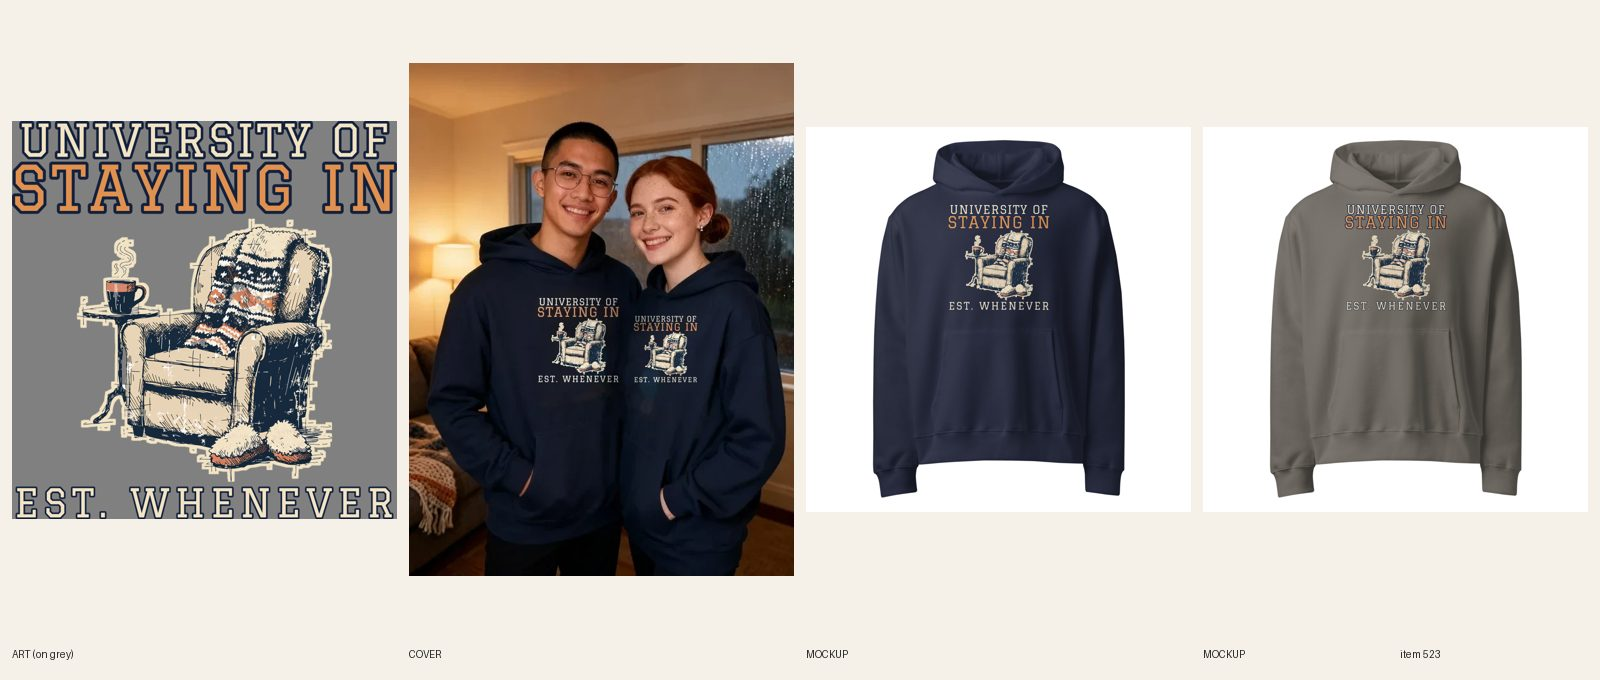
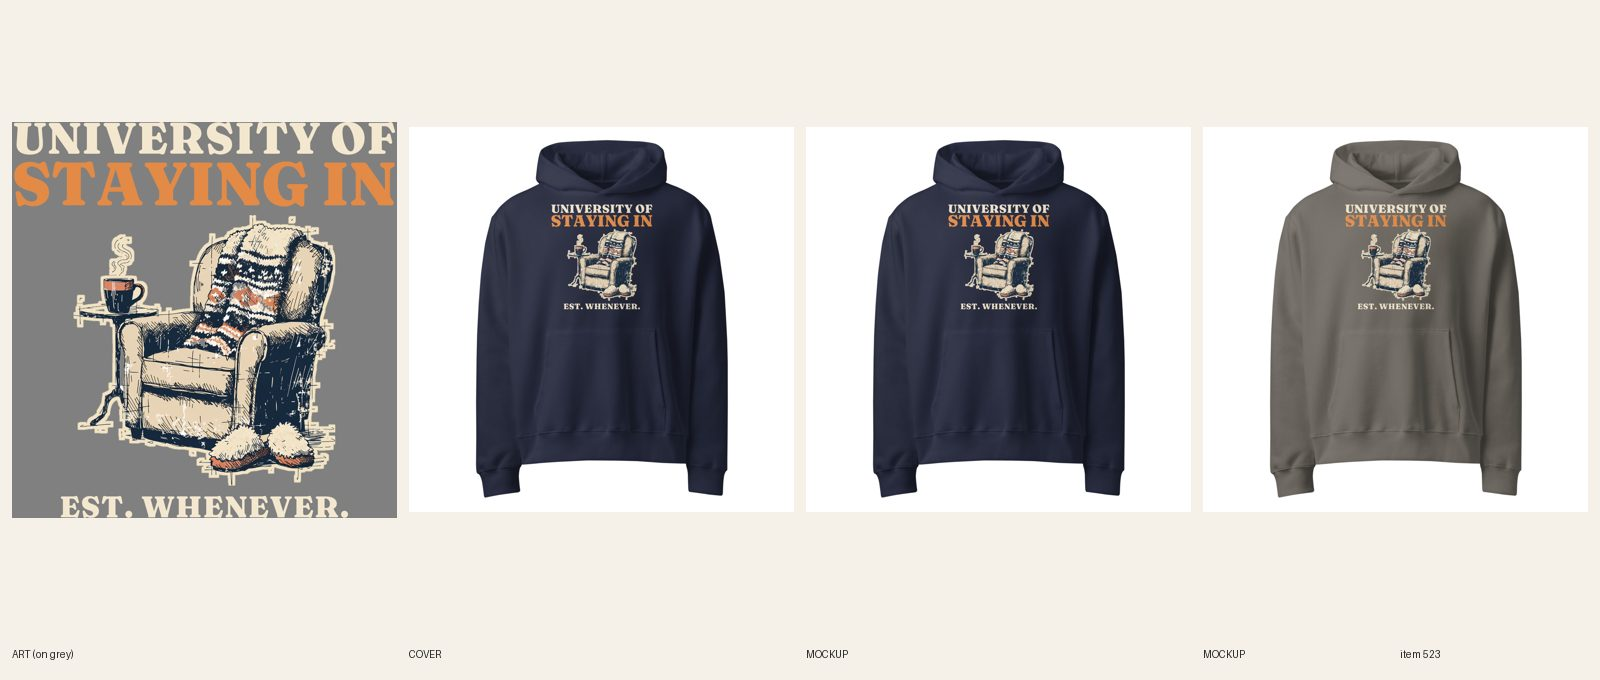
[C] review 523 University of Staying In oversized hoodie (type redo)

Changed region(s): [[0.0, 0.0926, 0.5, 0.8647], [0.8438, 0.2779, 0.9062, 0.4632], [0.5938, 0.2779, 0.6562, 0.4632]]

diff --git a/designs/c523/make.py b/designs/c523/make.py
@@ -1,0 +1,39 @@
+from PIL import Image, ImageDraw, ImageFont
+import sys
+src=Image.open('docs/print-files/487-university-of-staying-in.png').convert('RGBA')
+art=src.crop((0,845,3370,3175)); art=art.crop(art.getbbox())
+S=float(sys.argv[1]); arts=art.resize((int(art.width*S),int(art.height*S)),Image.LANCZOS); AH=arts.height
+FD='designs/fonts/'
+def line(text,font,size,maxw,fill,track=0.0,wght=None):
+    while True:
+        f=ImageFont.truetype(FD+font,size)
+        if wght:
+            f.set_variation_by_axes([36,wght,30,0]) if 'Fraunces' in font else f.set_variation_by_axes([wght])
+        adv=[f.getlength(c) for c in text]; t=int(size*track)
+        tot=int(sum(adv)+t*(len(text)-1))
+        if tot<=maxw: break
+        size=int(size*0.97)
+    asc,desc=f.getmetrics()
+    im=Image.new('RGBA',(tot+200,asc+desc+100),(0,0,0,0)); d=ImageDraw.Draw(im); x=100
+    for c,a in zip(text,adv):
+        d.text((x,50),c,font=f,fill=fill); x+=a+t
+    return im.crop(im.getbbox())
+def build(name,c1,c2,c3):
+    W=art.width
+    h2=line('STAYING IN','Fraunces[SOFT,WONK,opsz,wght].ttf',1400,int(W*1.0),c2,0.0,900)
+    h1=line('UNIVERSITY OF','Fraunces[SOFT,WONK,opsz,wght].ttf',900,int(W*1.0),c1,0.02,900)
+    h3=line('EST. WHENEVER.','Fraunces[SOFT,WONK,opsz,wght].ttf',700,int(W*0.78),c3,0.04,900)
+    print(name,art.size,h1.size,h2.size,h3.size,'h1/h2',h1.height/h2.height)
+    g=40
+    H=h1.height+g+h2.height+50+AH+60+h3.height
+    out=Image.new('RGBA',(W,H),(0,0,0,0)); y=0
+    out.alpha_composite(h1,((W-h1.width)//2,y)); y+=h1.height+g
+    out.alpha_composite(h2,((W-h2.width)//2,y)); y+=h2.height+50
+    out.alpha_composite(arts,((W-arts.width)//2,y)); y+=AH+60
+    out.alpha_composite(h3,((W-h3.width)//2,y))
+    out.save(f'designs/c523/{name}.png'); print(out.size)
+    for tag,bgc in (('dark',(38,50,88,255)),('light',(236,224,200,255))):
+        bg=Image.new('RGBA',out.size,bgc); bg.alpha_composite(out); bg.convert('RGB').resize((600,int(600*H/W))).save(f'designs/c523/prev_{name}_{tag}.png')
+CREAM=(243,231,207,255); ORANGE=(226,138,70,255); NAVY=(30,40,78,255); RUST=(170,78,42,255)
+build('print_light',CREAM,ORANGE,CREAM)
+build('print_dark',NAVY,RUST,NAVY)

diff --git a/docs/pipeline/523-oversized-hoodie-university-of-staying-in.md b/docs/pipeline/523-oversized-hoodie-university-of-staying-in.md
@@ -1,4 +1,4 @@
-status: BUILDING [C] 2026-10-19 20:55 UTC
+status: REVIEW
 lane: C
 type: twin
 id: 523
@@ -27,3 +27,4 @@ kd: 24
 - 2026-10-18 02:37 UTC builder [C]: Sync 12/12. REVIEW. Sheet docs/review/523.jpg.
 - 2026-10-18 03:30 UTC director: LIVE (ACTIVE + published, audit PASS).
 - 2026-10-18 17:22 UTC director: QUALITY RESET grade B (type only), REDO. The product stays ACTIVE (same handle, URL, title keyword). Keep the line "UNIVERSITY OF / STAYING IN / EST. WHENEVER" and the art. 1. Type: fake-club line works; EST. WHENEVER is a thin, spaced plain line, art floats between bars. 2. Quality reset type bar (docs/backlog/quality-reset.md, 'The new bar'): headline at least 90% of the art width, heavy, colors pulled from the art; second line at least 45% of the headline's height, never a thin script on a dark or mid garment; use the lettering as a shape (arch, stacked lockup, words breaking into the art), not a plain bar above and a script line below; no font used on more than 1 in 6 of the last 30 designs. 3. New print file means a new cover per R6.10 and a fresh review sheet (R7.7). While quality-reset.md says PAUSED, only lane A builds, and only the samples step 2 names.
+- 2026-10-19 21:10 UTC builder [C]: REDO 523 type only (B grade), port of #487's Fraunces Black lockup (UNIVERSITY OF cream / STAYING IN orange full width, EST. WHENEVER. bold at 49% of headline height). Oversized area is 1650x1650, so the tall crewneck print would not fit at FW 1500: art scaled to 68% and gaps tightened, print 2232x2295 (aspect 1.03, 10.3 in tall at FW 1500 TOP 30, ends clear of the pouch). R6.2: real-font lines, no ring/arch/panel. Light file (cream + orange) Printful 1089872837 on Navy and Asphalt (both dark/mid, no light colors offered, so no dark-ink file). 12/12 relinked. 2 fronts replaced in place (back unchanged). Copy: Story lettering sentence updated. Plain product shot (handle already in retired-covers.json). audit --handle PASS 0 warn. fal $0. Sheet docs/review/523.jpg.

diff --git a/docs/intake-log.md b/docs/intake-log.md
@@ -1,6 +1,7 @@
+
 2026-10-19 21:26 UTC — [E] Builder run: redid #578 Unisex Pitbull Scary Dog, Afraid of the Vacuum tee (type only: Bowlby One cream SCARY DOG. + Anton mustard AFRAID OF THE VACUUM. at full art width, same art, FW 1600 TOP 75, file 1089860399, 42/42 resynced, 6 fronts replaced in place, copy updated, plain product shot). REVIEW. fal $0. 1 redo per run cap reached. Lock released.
 
-RUNNING lane C since 2026-10-19 20:55 UTC
+2026-10-19 21:12 UTC — [C] Builder run: redid #523 Unisex University of Staying In oversized hoodie (type only: ported #487's Fraunces Black lockup, art scaled 68% to fit the 1650 oversized area, FW 1500 TOP 30, light file 1089872837 on Navy + Asphalt, 12/12 relinked, 2 fronts replaced in place, copy updated, plain product shot). REVIEW. fal $0. Lock released.
 2026-10-19 20:31 UTC — [E] Builder run: redid #538 Women's Motherhood Didn't Change Me tee (type only: Alfa Slab rust headline full width + Bevan green IT EXPOSED ME., same art, FW 1400, file 1089823424, 30/30 resynced, 5 fronts replaced in place, plain product shot). REVIEW. fal $0. Lock released.
 2026-10-19 20:57 UTC — [C] Builder run: redid #487 Unisex University of Staying In crewneck (type only: Fraunces Black UNIVERSITY OF / STAYING IN full width cream+orange, bold EST. WHENEVER., same art, FW 1650 TOP 30, light file 1089833025 (Navy) + dark-ink file 1089833068 (Sand), 12/12 relinked, 2 fronts replaced in place, copy updated, plain product shot). REVIEW. fal $0. Lock released.
 2026-10-19 20:33 UTC — [B] Builder run: redid #385 Fisher of Men half zip (type only: Big Shoulders Display Black, both lines 98% of art width, pine/rust on Dust, cream/orange on Navy, same scene, 14/14 relinked, 4 mockups replaced in place, copy updated, plain product shot). REVIEW. fal $0. Lock released.
